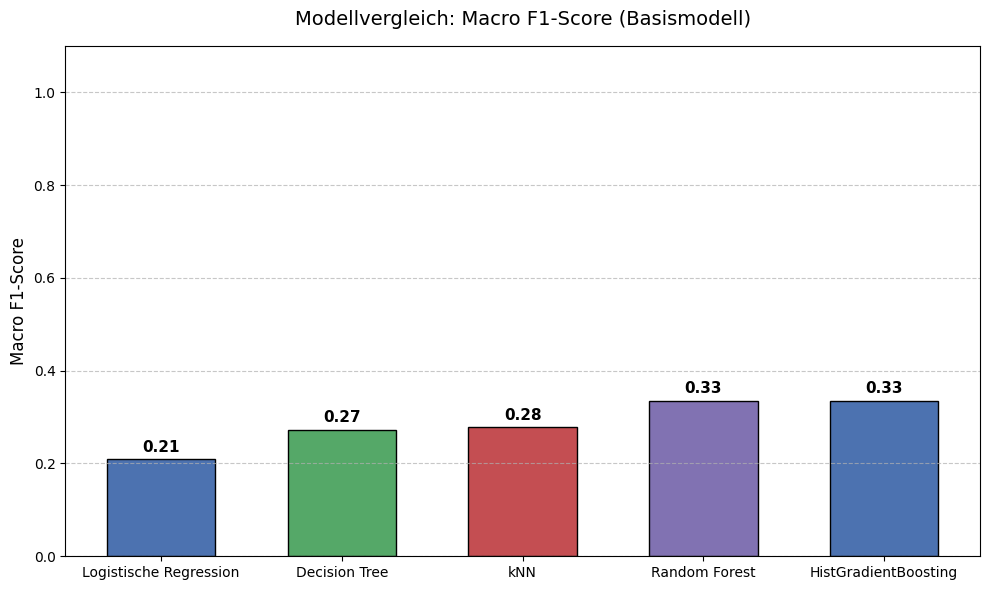
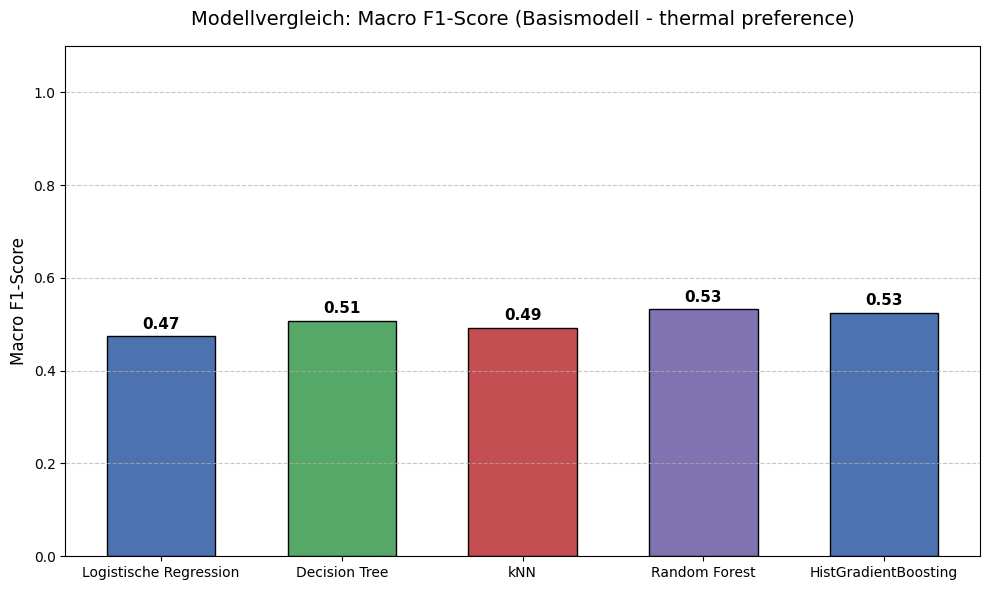
Update_ML

diff --git a/ml_ashrae.py b/ml_ashrae.py
@@ -205,10 +205,16 @@ with tab2:
     with rechts:
         st.image("ML/images/Problem_label_noise_thermal_preference.png", caption="Label Noise - Beispiel Thermal Comfort")
 
-    links, mitte, rechts = st.columns([1,2,1])
+    links, links_links, mitte_links, mitte, mitte_rechts, rechts = st.columns([0.5,2,2,2,2,0.5], vertical_alignment='center')
+    with links_links:
+        st.image("ML/images/verteilung_target_thermal_comfort.png", caption="Beispiel Classifcation Report - Thermal Comfort Basismodell")
+    with mitte_links:
+        st.image("ML/images/classification_report_random_forest_thermal_comfort_basis_.png", caption="Beispiel Classifcation Report - Thermal Comfort Basismodell")
     with mitte:
-
         st.image("ML/images/confusion_matrix_thermal_comfort.png", caption="Beispiel Confusion matrix - Thermal Comfort")
+    with mitte_rechts:
+        st.html(slide_point("Label Noise und Klassenimbalance machen es dem Random Forest schwer."))
+        #st.html(slide_point("."))
 
     st.subheader("Versuchte Maßnahmen")
     st.markdown("&nbsp;&nbsp;&nbsp;&nbsp; - Kleinere Datensätze mit Filterung für homogenere Datensätze")
@@ -237,16 +243,26 @@ with tab2:
     # Nativ in Streamlit anzeigen (wichtig: width="stretch" für die volle Breite)
     st.image(svg_code, width="stretch")
 
-
+    st.html(slide_point("Es liegt anscheinend ein nichtlineares Problem vor (z.B. U-förmiger Einfluss der Temperatur auf das Befinden), dass sich mit den linearen Algorithmen nicht gut abbilden lässt. "))
+    st.html(slide_point("Auch die Klassenungleichheit kann durch lineare Modelle schlechter berücksichtigt werden. Sie neigen zur Dominanz der Mehrheitsklasse. Entscheidungsbäume haben es damit leichter."))
+    st.html(slide_point("Entscheidungsbäume und kNN können die nichtlineare Situation besser abbilden, zeigen aber infolge des Label Noise keine guten Ergebnisse."))
+    st.html(slide_point("Gerade für kNN ist Label Noise problematisch. Entscheidungsbäume neigen zu Overfitting und sprunghaftem Wechsel zwischen Klassen (Auswendiglernen des Trainsets)"))
+    st.html(slide_point("Ensemble-Methoden, wie RandomForest und HistGradientBoosting können das Label Noise bedingt glätten und sind immun gegen Multikolinearität."))
+    st.html(slide_point("Die besten, wenn auch recht schwachen, Ergebnisse zeigen Random Forest und HistGradientBoosting. Diese sind zudem weniger anfällig bzgl. Korrelationen und benötigen keine Skalierung der Features."))
+    st.html(slide_point("Eine Reduzierung der Klassen verbessert die Werte der Metriken primär scheinbar, da dadurch auch die Wahrscheinlichkeiten für jede Klasse steigen. Das Problem des Label Noise bleibt."))
+    st.html(slide_point("An angesrebter Zielwert des macro F1-Score von ungefähr 0.7 wird nicht erreicht. Das Modell ist nur bedingt praxistauglich."))
+    st.html(slide_point("Für bessere Ergebnisse wären wahrscheinlich weitere subjektive Informationen der befragten Personen wichtig."))
+    st.html(slide_point("In der ASHRAE-Norm heißt es, dass eine Klimatisierung dann als erfolgreich und normgerecht gilt, wenn mindestens 80% der Raumnutzer zufrieden sind."))
 
 
     st.html("<div style='height: 140px;'></div>")    
 
-    links, mitte, rechts = st.columns([1,2,1])
-    with mitte:
+    links, rechts = st.columns([1,1])
+    with links:
+        st.image("ML/images/VergleichModelle_thermal_comfort_F1.png", caption="Vergleich der Ergebnisse - Thermal comfort")    
 
-
-        st.image("ML/images/VergleichModelle_thermal_preference_F1.png", caption="Vergleich der Ergebnisse - Thermal preference")    
+    with rechts:
+        st.image("ML/images/VergleichModelle_thermal_preference_F1.png", caption="Vergleich der Ergebnisse - Thermal Preference")    
 
 
 with tab3:
@@ -290,12 +306,14 @@ with tab3:
                 if st.checkbox(feature, value=True, key=f"feat_{feature}"):
                     selected_features.append(feature)
 
-        with row1_col2:
-            st.subheader("🧽 Daten-Handling")
-            impute_strategy = st.radio(
-                "Strategie für Fehlwerte:",
-                options=["Zeilen mit Fehlwerten löschen (dropna)", "Mit Median auffüllen (Imputer)"]
-            )
+        # with row1_col2:
+        #     st.subheader("🧽 Daten-Handling")
+        #     impute_strategy = st.radio(
+        #         "Strategie für Fehlwerte:",
+        #         options=["Zeilen mit Fehlwerten löschen (dropna)", "Mit Median auffüllen (Imputer)"]
+        #     )
+
+        impute_strategy = "Zeilen mit Fehlwerten löschen (dropna)"
 
         # Zweite Reihe: 3 Spalten für Features, Seasons und Climates
         row2_col1, row2_col2, row2_col3, row2_col4 = st.columns(4)
@@ -1173,9 +1191,18 @@ with tab4:
             * GridSearchCV ausgeführt, brachte aber keine Verbesserung
                     """)
         
-        Fscore_left, Fscore_middle, Fscore_right = st.columns([1,3,1])
-        with Fscore_middle:
+        links, mitte_links, mitte_rechts, rechts = st.columns([1,3,3,1], vertical_alignment='center')
+        with mitte_links:
             st.image("ML/images/VergleichModelle_cooling_type.png", caption="Modellvergleich: Macro F1-Score")
+
+        with mitte_rechts:
+            st.html(slide_point("Das beste Modell ergibt sich über ein RandomForest."))
+            st.html(slide_point("Lineare Modelle können die nichtlinearen Probleme schlecht abbilden."))
+            st.html(slide_point("Das Problem Label Noise ist deutlich geringer als bei der Werten des thermischen Empfindens."))
+            st.html(slide_point("HistGradientBoosting hat den Vorteil eines deutlich schnelleren Modells und kleiner Exportdatei."))
+
+        Fscore_left, Fscore_middle, Fscore_right = st.columns([1,3,3.5])
+        with Fscore_middle:
             st.image("ML/images/pairplot_cooling_type.png", caption="Modellvergleich: Macro F1-Score")
 
 
@@ -1594,9 +1621,14 @@ with tab5:
             * Über GridSearch Hyperparameter optimiert
             """)
         
-        R_left, R_middle, R_right = st.columns([1,3,1])
-        with R_middle:
-            st.image("ML/images/VergleichModelle_clo_MAE.png", caption="Modellvergleich: Macro F1-Score")
+        links, mitte_links, mitte_rechts, rechts = st.columns([1,3,3,1], vertical_alignment='center')
+        with mitte_links:
+            st.image("ML/images/VergleichModelle_clo_MAE.png", caption="Modellvergleich: MAE")
+        
+        with mitte_rechts:
+            st.html(slide_point("Auch in dieser Regressionsbetrachtung zeigen die Ensemblemethoden die besten Werte."))
+            st.html(slide_point("Die Abweichung liegt im Mittel bei einem clo-Wert von 0.12, was einer praxistauglichen Vorhersage entspricht."))
+            st.html(slide_point("..."))
 
 
 with tab6:
